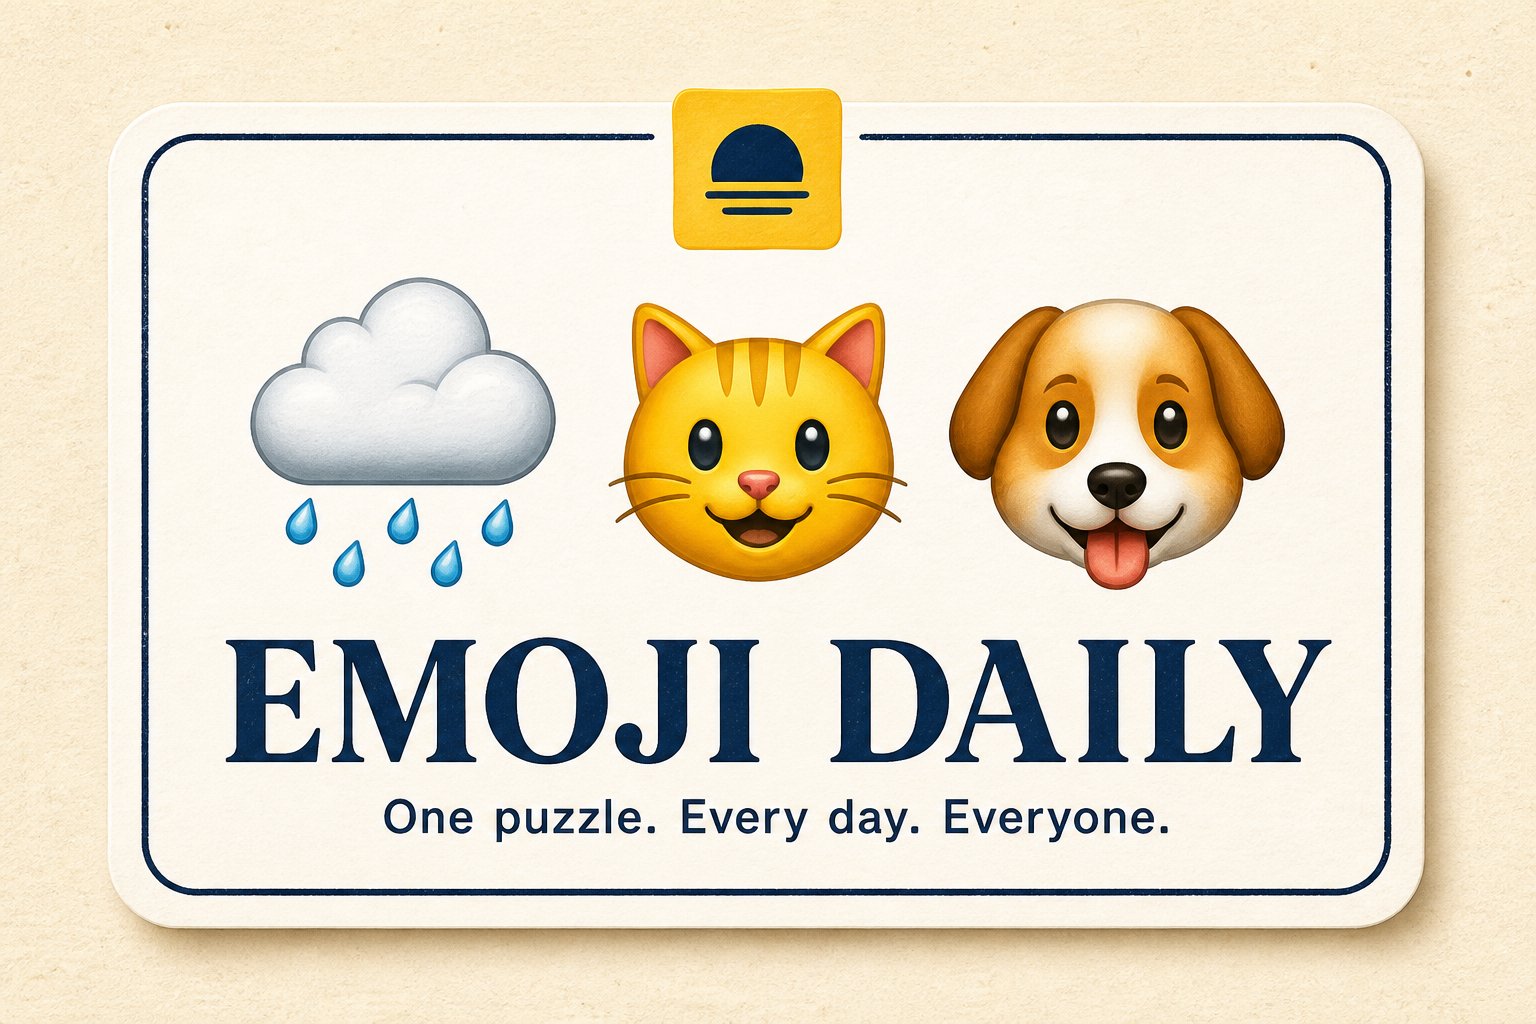
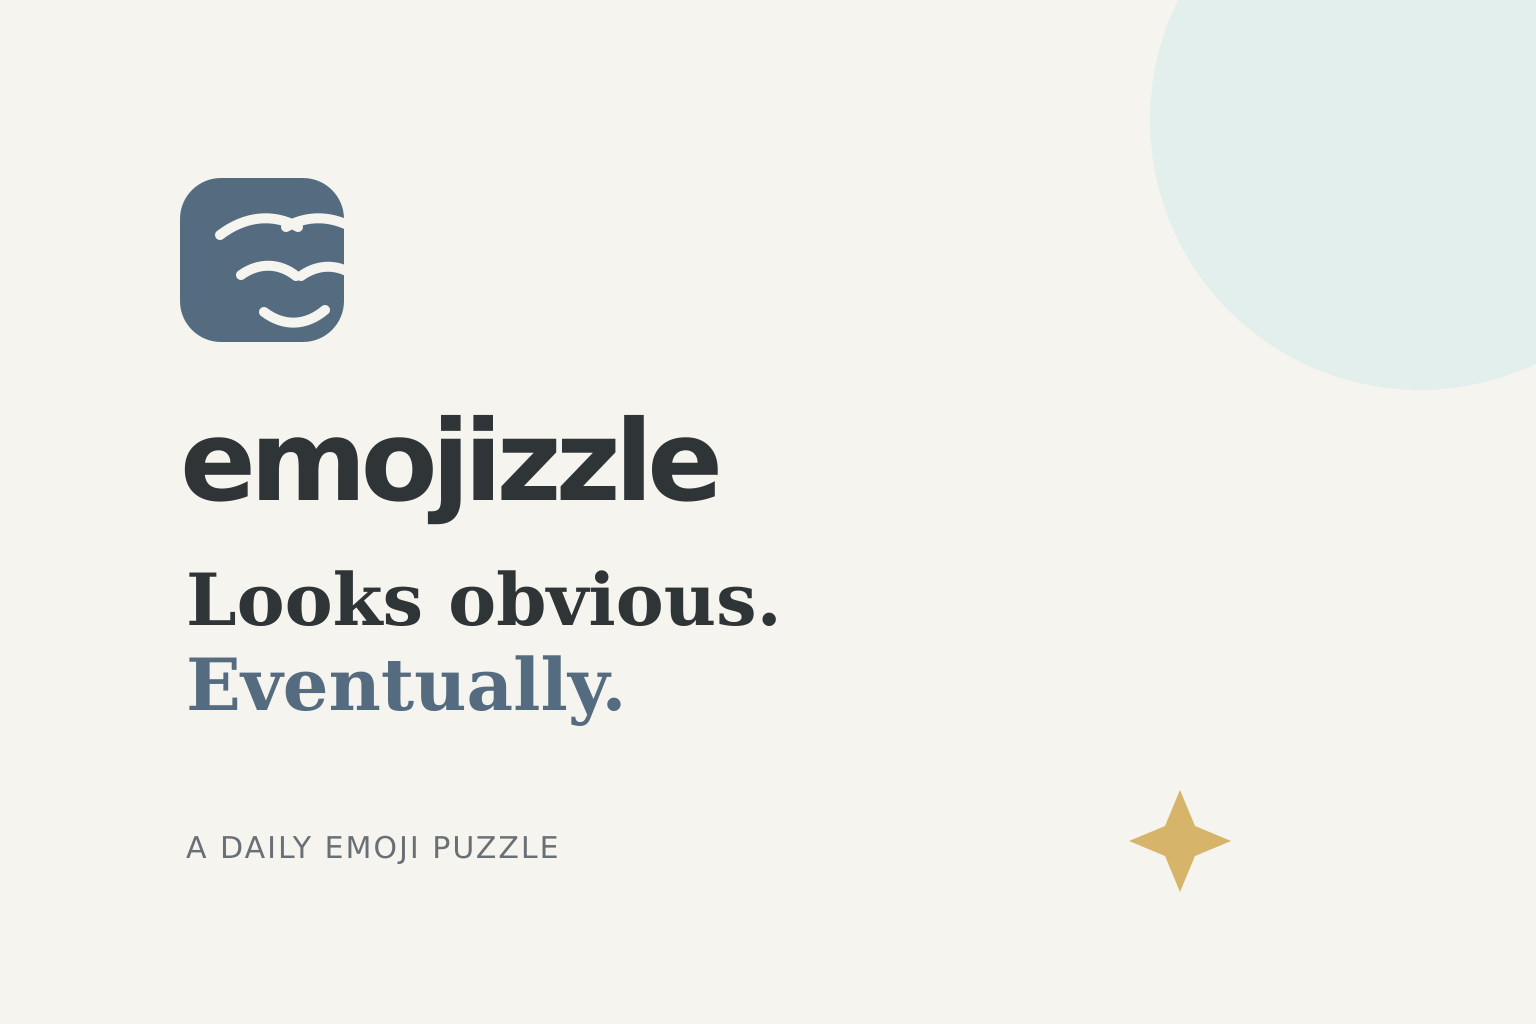
feat: establish Emojizzle brand and deployment workflow

diff --git a/app/DailyPuzzle.tsx b/app/DailyPuzzle.tsx
@@ -21,6 +21,8 @@ import {
   type Resolution,
 } from "../lib/play-state";
 import { feedbackPlayFields } from "../lib/feedback-payload";
+import { BrandWordmark } from "./components/BrandWordmark";
+import { KnowingMark } from "./components/KnowingMark";
 
 const SESSION_KEY = "emoji-daily-anonymous-session";
 
@@ -320,19 +322,19 @@ export function DailyPuzzle({
   function shareText() {
     if (puzzle.pool === "practice") {
       if (play.outcome === "playing") {
-        return "Can you solve this Emoji Daily practice puzzle?";
+        return "Can you solve this Emojizzle practice puzzle?";
       }
       const result = `${play.guessCount} ${play.guessCount === 1 ? "guess" : "guesses"} and ${play.hints.length} ${play.hints.length === 1 ? "hint" : "hints"}`;
       return play.outcome === "solved"
-        ? `I solved an Emoji Daily practice puzzle in ${result}. Can you beat my result?`
-        : `I revealed an Emoji Daily practice puzzle after ${result}. Can you solve it?`;
+        ? `I solved an Emojizzle practice puzzle in ${result}. Can you beat my result?`
+        : `I revealed an Emojizzle practice puzzle after ${result}. Can you solve it?`;
     }
     if (play.outcome === "playing") {
-      return "Can you decode today’s Emoji Daily?";
+      return "Can you decode today’s Emojizzle?";
     }
     const solved = play.outcome === "solved";
     return [
-      `Emoji Daily #${puzzle.dateCode}`,
+      `Emojizzle #${puzzle.dateCode}`,
       `${solved ? "🟩 Solved" : "⬜ Revealed"} · ${play.guessCount} ${play.guessCount === 1 ? "guess" : "guesses"} · ${play.hints.length} ${play.hints.length === 1 ? "hint" : "hints"}`,
       "Can you decode today’s puzzle?",
     ].join("\n");
@@ -349,8 +351,8 @@ export function DailyPuzzle({
     try {
       await navigator.share({
         title: puzzle.pool === "practice"
-          ? "Emoji Daily Practice"
-          : `Emoji Daily #${puzzle.dateCode}`,
+          ? "Emojizzle Practice"
+          : `Emojizzle #${puzzle.dateCode}`,
         text: shareText(),
         url: shareUrl(),
       });
@@ -390,8 +392,8 @@ export function DailyPuzzle({
   function shareByEmail() {
     const subject = encodeURIComponent(
       puzzle.pool === "practice"
-        ? "Try Emoji Daily Practice"
-        : `Try Emoji Daily #${puzzle.dateCode}`,
+        ? "Try Emojizzle Practice"
+        : `Try Emojizzle #${puzzle.dateCode}`,
     );
     const body = encodeURIComponent(`${shareText()}\n\n${shareUrl()}`);
     window.location.href = `mailto:?subject=${subject}&body=${body}`;
@@ -446,12 +448,11 @@ export function DailyPuzzle({
   return (
     <main className="game-shell">
       <header className="topbar">
-        <button className="brand brand-button" type="button" onClick={() => switchMode("daily")} aria-label="Emoji Daily home">
-          <span className="brand-mark" aria-hidden="true">◒</span>
-          <span>Emoji Daily</span>
+        <button className="brand brand-button" type="button" onClick={() => switchMode("daily")} aria-label="Emojizzle home">
+          <BrandWordmark />
         </button>
         <div className="topbar-actions">
-          <button className="topbar-share" type="button" onClick={openShareSheet} aria-label="Share Emoji Daily">
+          <button className="topbar-share" type="button" onClick={openShareSheet} aria-label="Share Emojizzle">
             <span aria-hidden="true">↗</span>
             <span>Share</span>
           </button>
@@ -573,7 +574,7 @@ export function DailyPuzzle({
           <div className="confetti" aria-hidden="true">
             <i /><i /><i /><i /><i /><i />
           </div>
-          <div className="result-kicker">{play.outcome === "solved" ? "Aha—you got it!" : "Here’s the answer"}</div>
+          <div className="result-kicker"><KnowingMark size={44} />{play.outcome === "solved" ? "Aha—you got it!" : "Here’s the answer"}</div>
           <div className="result-emoji" aria-hidden="true">{puzzle.emoji}</div>
           <div className="category-pill">{play.resolution?.category}</div>
           <h1 id="result-title">{play.resolution?.answer}</h1>
@@ -688,7 +689,7 @@ export function DailyPuzzle({
               )}
             </div>
             <p className="share-status" aria-live="polite">
-              {shareState === "copied" && "Daily puzzle link copied!"}
+              {shareState === "copied" && "Emojizzle link copied!"}
               {shareState === "shared" && "Thanks for sharing!"}
               {shareState === "error" && "Couldn’t share this time. Please try again."}
             </p>
@@ -697,7 +698,7 @@ export function DailyPuzzle({
       )}
 
       <footer>
-        <span>{puzzle.pool === "practice" ? "Practice at your own pace." : "One puzzle. Every day. Everyone."}</span>
+        <span>Looks obvious. Eventually.</span>
         <span aria-hidden="true">No account · No feed · Just the puzzle</span>
       </footer>
     </main>

diff --git a/app/globals.css b/app/globals.css
@@ -1,6 +1,9 @@
 @import "tailwindcss";
 
 :root {
+  --font-ui: Inter, ui-sans-serif, -apple-system, BlinkMacSystemFont, "Segoe UI", sans-serif;
+  --font-brand: "Nunito Sans", ui-rounded, "Arial Rounded MT Bold", Arial, sans-serif;
+  --font-editorial: Fraunces, Georgia, "Times New Roman", serif;
   --ink: #18253a;
   --muted: #687183;
   --paper: #f7f2e9;
@@ -660,4 +663,76 @@ footer span:first-child { color: var(--ink); font-family: Georgia, serif; font-s
 
 @media (prefers-reduced-motion: reduce) {
   *, *::before, *::after { scroll-behavior: auto !important; animation-duration: .001ms !important; animation-iteration-count: 1 !important; transition-duration: .001ms !important; }
+}
+
+/* Emojizzle brand foundation */
+:root {
+  --brand-slate: #556b80;
+  --brand-mist: #89b6b0;
+  --brand-gold: #d6b46a;
+  --brand-ivory: #f5f4ef;
+  --brand-graphite: #2f3437;
+  --surface: #fffdfa;
+  --surface-muted: #eceae5;
+  --line-strong: #c7c7c1;
+  --text-primary: #2f3437;
+  --text-muted: #697075;
+  --text-faint: #888d90;
+  --slate-dark: #405365;
+  --slate-soft: #e6ebee;
+  --mist-soft: #e3efed;
+  --gold-soft: #f4ebd8;
+  --danger: #a45652;
+  --danger-soft: #f4e8e6;
+  --ink: var(--brand-graphite);
+  --muted: var(--text-muted);
+  --paper: var(--brand-ivory);
+  --card: var(--surface);
+  --line: #d9d8d3;
+  --shadow: 0 10px 30px rgba(47, 52, 55, .055);
+}
+
+html { background: var(--brand-ivory); }
+body { color: var(--brand-graphite); background: radial-gradient(circle at 90% 10%, rgba(137,182,176,.1), transparent 26rem), var(--brand-ivory); font-family: var(--font-ui), Inter, sans-serif; }
+:focus-visible { outline-color: rgba(85,107,128,.28); }
+.brand { color: var(--brand-graphite); font-family: var(--font-brand), sans-serif; font-size: 24px; font-weight: 900; letter-spacing: -.055em; line-height: .95; }
+.brand-wordmark { display: inline-block; }
+.knowing-mark { --mark-feature: var(--brand-ivory); display: block; color: var(--brand-slate); flex: 0 0 auto; }
+.knowing-mark--inverse { --mark-feature: var(--brand-slate); color: var(--brand-ivory); }
+.brand-mark { display: none; }
+.topbar { border-bottom-color: var(--line); }
+.topbar-share { color: var(--brand-slate); }
+.day-pill, .category-pill { border-color: var(--line); color: var(--brand-slate); background: rgba(255,255,255,.55); }
+.mode-switch { border-color: var(--line); background: rgba(255,255,255,.55); }
+.mode-switch button.selected { color: var(--brand-ivory); background: var(--brand-slate); box-shadow: none; }
+.play-card, .result-card { border-color: var(--line); border-radius: 24px; background: rgba(255,253,250,.9); box-shadow: var(--shadow); }
+.eyebrow, .result-kicker { color: var(--brand-slate); }
+h1, .share-heading h2 { font-family: var(--font-editorial), Georgia, serif; font-weight: 600; }
+.emoji-stage { border-color: var(--line); border-radius: 20px; background: var(--surface); }
+.emoji-stage::before, .emoji-stage::after, .emoji-glow { display: none; }
+.emoji-line { filter: none; }
+.guess-form input { border-color: var(--line-strong); color: var(--brand-graphite); background: var(--surface); }
+.guess-form input:focus { border-color: var(--brand-slate); box-shadow: 0 0 0 3px rgba(85,107,128,.13); }
+.primary-button, .share-button { background: var(--brand-slate); box-shadow: none; }
+.primary-button:hover, .share-button:hover { background: var(--slate-dark); transform: none; }
+.primary-button:active, .share-button:active { transform: translateY(1px); box-shadow: none; }
+.wrong-message, .feedback-error { color: var(--danger); }
+.hint { background: var(--gold-soft); }
+.hint span { color: var(--brand-graphite); background: var(--brand-gold); }
+.hint-button > span { color: var(--gold-dark, #ac8950); }
+.result-kicker { display: flex; align-items: center; justify-content: center; gap: 9px; }
+.result-card.solved .result-kicker { color: var(--gold-dark, #ac8950); }
+.result-card.revealed .result-kicker { color: var(--brand-slate); }
+.next-button { color: var(--brand-ivory); background: var(--brand-slate); border: 0; box-shadow: none; }
+.next-button:hover { background: var(--slate-dark); }
+.feedback-card { border-color: var(--line); background: var(--mist-soft); }
+.rating-buttons button.selected { border-color: var(--brand-slate); background: var(--mist-soft); box-shadow: 0 0 0 2px white, 0 0 0 4px var(--brand-slate); }
+.feedback-thanks > span { background: var(--mist-soft); color: var(--mist-dark, #648f89); }
+footer span:first-child { color: var(--brand-graphite); font-family: var(--font-editorial), Georgia, serif; }
+.share-sheet { border-color: var(--line); }
+.share-options button:hover { border-color: var(--brand-slate); background: var(--slate-soft); }
+
+@media (max-width: 680px) {
+  .brand { font-size: 21px; }
+  .play-card, .result-card { margin-top: 28px; }
 }

diff --git a/app/layout.tsx b/app/layout.tsx
@@ -2,19 +2,24 @@ import type { Metadata, Viewport } from "next";
 import "./globals.css";
 
 export const metadata: Metadata = {
-    metadataBase: new URL(process.env.NEXT_PUBLIC_SITE_URL ?? "https://proud-cliff-05850990f.7.azurestaticapps.net"),
-    title: "Emoji Daily — One puzzle for everyone",
-    description: "Decode today’s globally shared emoji puzzle. One puzzle, once a day, no account needed.",
+    metadataBase: new URL(process.env.NEXT_PUBLIC_SITE_URL ?? "https://emojizzle.com"),
+    title: "Emojizzle — Looks obvious. Eventually.",
+    description: "Decode today's shared emoji puzzle. One puzzle, every day, no account needed.",
+    alternates: { canonical: "https://emojizzle.com/" },
+    icons: {
+      icon: "/brand/favicon.svg",
+      apple: "/brand/apple-touch-icon.png",
+    },
     openGraph: {
-      title: "Emoji Daily",
-      description: "One emoji puzzle. Every day. Everyone.",
+      title: "Emojizzle",
+      description: "Looks obvious. Eventually.",
       type: "website",
-      images: [{ url: "/og.png", width: 1536, height: 1024, alt: "Emoji Daily — one puzzle every day" }],
+      images: [{ url: "/og.png", width: 1536, height: 1024, alt: "Emojizzle — Looks obvious. Eventually." }],
     },
     twitter: {
       card: "summary_large_image",
-      title: "Emoji Daily",
-      description: "One emoji puzzle. Every day. Everyone.",
+      title: "Emojizzle",
+      description: "Looks obvious. Eventually.",
       images: ["/og.png"],
     },
 };
@@ -23,7 +28,7 @@ export const viewport: Viewport = {
   width: "device-width",
   initialScale: 1,
   viewportFit: "cover",
-  themeColor: "#f7f2e9",
+  themeColor: "#F5F4EF",
 };
 
 export default function RootLayout({ children }: Readonly<{ children: React.ReactNode }>) {

diff --git a/app/GameLoader.tsx b/app/GameLoader.tsx
@@ -3,6 +3,7 @@
 import { useEffect, useState } from "react";
 import { DailyPuzzle, type ChallengeBenchmark } from "./DailyPuzzle";
 import type { PublicPuzzle } from "../lib/public-puzzle";
+import { KnowingMark } from "./components/KnowingMark";
 
 type LoaderMode = "daily" | "practice" | "next";
 
@@ -25,7 +26,7 @@ export function GameLoader({ mode }: { mode: LoaderMode }) {
   if (error) {
     return (
       <main className="utility-page">
-        <div className="brand-mark" aria-hidden="true">◒</div>
+        <KnowingMark size={64} />
         <h1>Puzzle temporarily unavailable</h1>
         <p>{error}</p>
         <button className="primary-button" type="button" onClick={() => window.location.reload()}>Try again</button>
@@ -36,7 +37,7 @@ export function GameLoader({ mode }: { mode: LoaderMode }) {
   if (!result) {
     return (
       <main className="utility-page" aria-busy="true">
-        <div className="brand-mark" aria-hidden="true">◒</div>
+        <KnowingMark size={64} />
         <h1>Setting today’s puzzle…</h1>
         <p aria-live="polite">Just a moment.</p>
       </main>

diff --git a/app/components/KnowingMark.tsx b/app/components/KnowingMark.tsx
@@ -1,0 +1,16 @@
+type KnowingMarkProps = { size?: number; tone?: "default" | "inverse"; className?: string };
+
+export function KnowingMark({ size = 32, tone = "default", className = "" }: KnowingMarkProps) {
+  return (
+    <svg className={`knowing-mark knowing-mark--${tone} ${className}`.trim()} width={size} height={size} viewBox="0 0 512 512" role="img" aria-label="Emojizzle" xmlns="http://www.w3.org/2000/svg">
+      <rect x="40" y="40" width="432" height="432" rx="108" fill="currentColor" />
+      <g fill="none" stroke="var(--mark-feature)" strokeWidth="22" strokeLinecap="round" strokeLinejoin="round">
+        <path d="M145 190c25-19 53-22 78-8" />
+        <path d="M289 182c25-14 53-11 78 8" />
+        <path d="M169 243c18-13 39-12 55 1" />
+        <path d="M288 244c18-13 39-12 55 1" />
+      </g>
+      <path d="M211 335c35 26 75 25 108-3" fill="none" stroke="var(--mark-feature)" strokeWidth="22" strokeLinecap="round" />
+    </svg>
+  );
+}

diff --git a/app/admin/AdminLogin.tsx b/app/admin/AdminLogin.tsx
@@ -29,7 +29,7 @@ export function AdminLogin({ onSuccess }: { onSuccess: () => void }) {
   return (
     <main className="admin-login-shell">
       <form className="admin-login-card" onSubmit={submit}>
-        <Link className="brand" href="/"><span className="brand-mark" aria-hidden="true">◒</span><span>Emoji Daily</span></Link>
+        <Link className="brand" href="/">emojizzle</Link>
         <p className="admin-eyebrow">Puzzle administration</p>
         <h1>Welcome back</h1>
         <p>Enter the private admin password to manage puzzles and feedback.</p>

diff --git a/app/startover/page.tsx b/app/startover/page.tsx
@@ -1,6 +1,7 @@
 "use client";
 
 import { useEffect } from "react";
+import { KnowingMark } from "../components/KnowingMark";
 
 export default function StartOver() {
   useEffect(() => {
@@ -19,7 +20,7 @@ export default function StartOver() {
 
   return (
     <main className="utility-page">
-      <div className="brand-mark" aria-hidden="true">◒</div>
+      <KnowingMark size={64} />
       <h1>Starting fresh…</h1>
       <p aria-live="polite">Clearing this device’s game progress and returning to today’s puzzle.</p>
     </main>

diff --git a/app/admin/AdminHeader.tsx b/app/admin/AdminHeader.tsx
@@ -8,7 +8,7 @@ export function AdminHeader({ title }: { title: string }) {
 
   return (
     <header className="admin-header">
-      <a className="brand" href="/admin/"><span className="brand-mark" aria-hidden="true">◒</span><span>Emoji Daily</span></a>
+      <a className="brand" href="/admin/">emojizzle</a>
       <span className="admin-header-title">{title}</span>
       <button className="quiet-button" type="button" onClick={logout}>Log out</button>
     </header>

diff --git a/app/components/BrandWordmark.tsx b/app/components/BrandWordmark.tsx
@@ -1,0 +1,3 @@
+export function BrandWordmark({ className = "" }: { className?: string }) {
+  return <span className={`brand-wordmark ${className}`.trim()}>emojizzle</span>;
+}

diff --git a/docs/OPERATING_GUIDE.md b/docs/OPERATING_GUIDE.md
@@ -8,6 +8,8 @@ Before provisioning, confirm the active Azure tenant and subscription. The deplo
 
 GitHub production must define `AZURE_CLIENT_ID`, `AZURE_TENANT_ID`, `AZURE_SUBSCRIPTION_ID`, `ADMIN_PASSWORD`, and `ADMIN_SESSION_SECRET` in its protected `production` environment. The Azure identity uses OIDC and is granted Contributor only on `emoji-daily-prod-rg`. Subscription-scope bootstrap and budget changes are run manually by an authorized subscription operator.
 
+The production deployment workflow runs after pushes to the repository’s `deploy` branch or by manual dispatch. It validates the web app and API with Node 22, then uses the protected `production` environment and Azure OIDC to retrieve the existing Static Web Apps deployment token and publish both the static site and `/api`. Configure the `production` environment approval rules before enabling automatic deploys.
+
 The production workflow validates both apps, provisions the existing production resource group idempotently, seeds the catalog once, deploys the exact static/API build, and smoke-tests the generated hostname. It runs only for `main` and manual dispatches; pull requests never access production storage.
 
 ## Puzzle operations

diff --git a/GOALS.md b/GOALS.md
@@ -1,10 +1,10 @@
-# Emoji Daily: Product Goals
+# Emojizzle: Product Goals
 
 ## Vision
 
 Create a tiny global ritual: everyone receives the same sequence of emojis, tries to understand what it means, shares a spoiler-free result, and comes back tomorrow.
 
-Emoji Daily is not “guess the movie from emojis.” It is a daily visual-semantic riddle whose answer may be a phrase, person, story, song, event, place, joke, or concept.
+Emojizzle is not “guess the movie from emojis.” It is a daily visual-semantic riddle whose answer may be a phrase, person, story, song, event, place, joke, or concept.
 
 ## Core hypothesis
 

diff --git a/README.md b/README.md
@@ -1,6 +1,8 @@
-# Emoji Daily
+# Emojizzle
 
 One globally shared emoji puzzle per UTC day, plus a separate Practice sequence and a private mobile-first puzzle administration portal.
+
+Looks obvious. Eventually. · https://emojizzle.com
 
 ## Architecture
 
